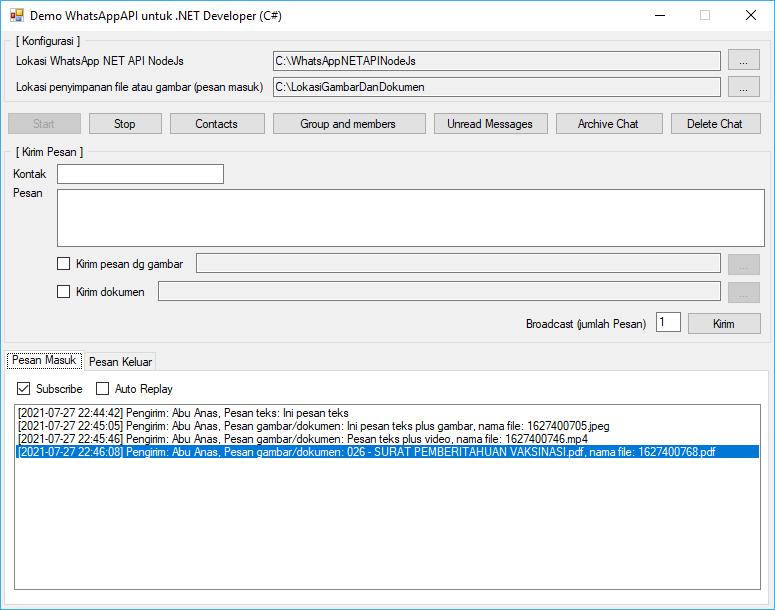
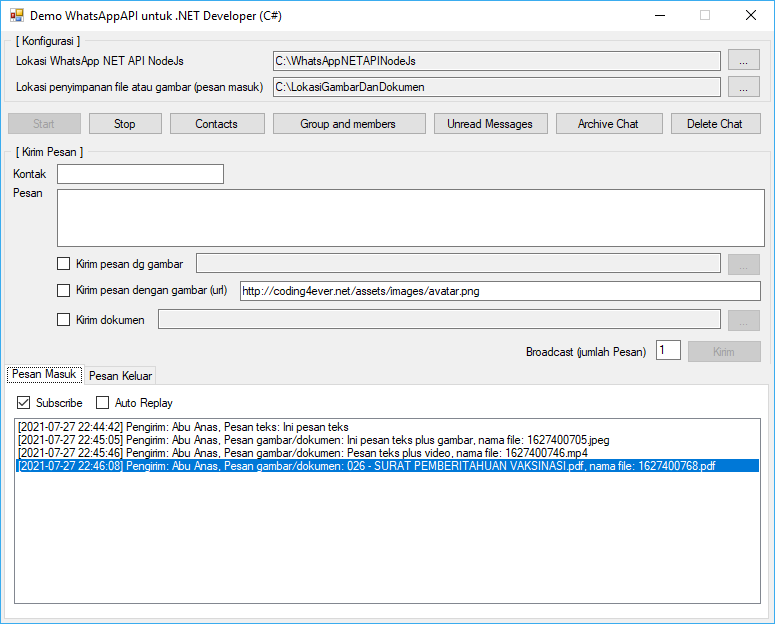
Site updated at 2021-07-30 09:21:00 PM

diff --git a/index.html b/index.html
@@ -63,10 +63,13 @@
   <li>Mengirim pesan</li>
   <li>Mengirim banyak pesan (broadcast)</li>
   <li>Mengirim pesan dengan gambar, audio, video, dan semua jenis dokumen</li>
-  <li>Bisa menyimpan gambar, audio, video, dan semua jenis dokumen dari pesan yang masuk (bisa ditentukan sendiri lokasi penyimpanannya)</li>
-  <li>Bisa juga membaca pesan dengan tipe <code class="language-plaintext highlighter-rouge">contact</code> dan <code class="language-plaintext highlighter-rouge">location</code></li>
+  <li>Mengirim pesan dengan gambar, audio, video, dan semua jenis dokumen via URL</li>
+  <li>ReplyMessage (quoted message)</li>
+  <li>Bisa menyimpan gambar, audio, video, semua jenis dokumen termasuk vcard dari pesan yang masuk (bisa ditentukan sendiri lokasi penyimpanannya)</li>
+  <li>Bisa juga membaca pesan dengan tipe <code class="language-plaintext highlighter-rouge">vcard</code> dan <code class="language-plaintext highlighter-rouge">location</code></li>
   <li>Archive chat</li>
   <li>Delete chat</li>
+  <li>Listen/subscribe event ChangeState untuk memonitoring perubahan status koneksi</li>
   <li>Listen/subscribe pesan yang masuk, jadi enggak perlu nambah objek timer lagi untuk membaca pesan masuk</li>
   <li>Listen/subscribe pesan yang dikirim, dengan fitur ini kita bisa mengecek apakah pesan yang dikirim berhasil atau gagal</li>
   <li>Otomatis menyimpan sesi login (jadi scan qr code WAnya cukup sekali saja)</li>
@@ -76,16 +79,15 @@
 <h2 id="persyaratan-sistem">Persyaratan Sistem</h2>
 
 <ul>
-  <li>Windows 7, 8, 10 dan windows versi terbaru</li>
+  <li>Windows 8, 10 dan windows versi terbaru</li>
   <li>.NET Framework 4.5 dan .NET versi terbaru</li>
-  <li>Node.js versi 13.14.0 (khusus Windows 7)</li>
-  <li>Node.js versi 14.16.x atau versi terbaru (untuk windows 8, 10 atau windows terbaru)</li>
+  <li>Node.js versi 14.16.x atau versi terbaru</li>
   <li><a href="https://git-scm.com/downloads">Software git</a> (version control)</li>
 </ul>
 
 <h2 id="instalasi">Instalasi</h2>
 
-<h3 id="1-menginstall-nodejs-versi-13140-windows-7-atau-14xx-untuk-windows-8-10-atau-windows-terbaru">1. Menginstall Node.js versi 13.14.0 (windows 7) atau 14.x.x (untuk windows 8, 10 atau windows terbaru)</h3>
+<h3 id="1-menginstall-nodejs">1. Menginstall Node.js</h3>
 
 <p>Kenapa harus menginstall Node.js? Karena dalam pengembangannya WhatsApp NET Client ini, saya menggunakan <a href="https://github.com/pedroslopez/whatsapp-web.js/">whatsapp-web.js</a> sebagai engine untuk berkomunikasi dengan WhatsApp Web, sehingga diperlukan Node.js karena <a href="https://github.com/pedroslopez/whatsapp-web.js/">Whatsapp-web.js</a> sendiri dikembangkan di atas platform ini.</p>
 
@@ -155,6 +157,32 @@
 
 <p><img src="http://wa-net.coding4ever.net/assets/images/15.png" alt="" /></p>
 
+<h2 id="update">Update</h2>
+
+<h3 id="1-mengupdate-repository-whatsappnetapinodejs">1. Mengupdate Repository WhatsAppNETAPINodeJs</h3>
+
+<p>Untuk mengupdate repository <a href="https://github.com/WhatsAppNETClient/WhatsAppNETAPINodeJs">WhatsApp NET API NodeJs</a> caranya sangat gampang, Anda jalankan terlebih dulu <code class="language-plaintext highlighter-rouge">command prompt</code> kemudian masuk ke direktori <code class="language-plaintext highlighter-rouge">WhatsAppNETAPINodeJs</code> dengan menggunakan perintah <code class="language-plaintext highlighter-rouge">CD</code>, setelah itu ketik perintah berikut:</p>
+
+<div class="language-plaintext highlighter-rouge"><div class="highlight"><pre class="highlight"><code>git pull
+</code></pre></div></div>
+<p>Kemudian tunggu sampai proses updatenya selesai. Jika berhasil tampilan prosesnya lebih kurang seperti berikut:</p>
+
+<p><img src="http://wa-net.coding4ever.net/assets/images/21.png" alt="" /></p>
+
+<h3 id="2-mengupdate-project-net">2. Mengupdate Project .NET</h3>
+
+<p>Langkah berikutnya adalah mengupdate nuget package <a href="https://www.nuget.org/packages/WhatsAppNETAPI/">WhatsAppNETAPI</a> di project .NET Anda. Caranya adalah buka terlebih dulu project Anda, kemudian klik kanan <code class="language-plaintext highlighter-rouge">References</code> -&gt; <code class="language-plaintext highlighter-rouge">Manage Nuget Package...</code></p>
+
+<p><img src="http://wa-net.coding4ever.net/assets/images/22.png" alt="" /></p>
+
+<p>Kemudian pada jendela Nuget Package, Anda pilih panel <code class="language-plaintext highlighter-rouge">Updates</code>, dan cari package <a href="https://www.nuget.org/packages/WhatsAppNETAPI/">WhatsAppNETAPI</a> kemudian klik tombol <code class="language-plaintext highlighter-rouge">Update</code>.</p>
+
+<p><img src="http://wa-net.coding4ever.net/assets/images/23.png" alt="" /></p>
+
+<p>Tunggu sampai proses Updatenya selesai. Tampilannya kurang lebih seperti berikut:</p>
+
+<p><img src="http://wa-net.coding4ever.net/assets/images/24.png" alt="" /></p>
+
 <h2 id="melaporkan-bug-atau-error">Melaporkan Bug atau Error</h2>
 
 <p>Secara teknis dalam pengembangan sebuah aplikasi jelas tidak mungkin 100% bebas dari bug. Nah jika Anda menemukan bug atau error pada saat menggunakan library WhatsApp NET Client ini, silahkan Anda laporkan di halaman <a href="https://github.com/WhatsAppNETClient/WhatsAppNETClient2/issues">https://github.com/WhatsAppNETClient/WhatsAppNETClient2/issues</a>.</p>
@@ -182,6 +210,24 @@
 <p><img src="http://wa-net.coding4ever.net/assets/images/20.png" alt="" /></p>
 
 <h2 id="info-rilis">Info Rilis</h2>
+
+<h3 id="v210-2021-07-30">v2.1.0 (2021-07-30)</h3>
+
+<ul>
+  <li>Fitur baru:
+    <ul>
+      <li>Penambahan fitur ReplyMessage (quoted message)</li>
+      <li>Penambahan fitur untuk mengirim pesan gambar, audio, video dan dokumen via URL</li>
+      <li>Penambahan fitur untuk menyimpan pesan vcard dalam bentuk file</li>
+      <li>Penambahan event ChangeState untuk memonitoring perubahan status koneksi</li>
+    </ul>
+  </li>
+  <li>Improve:
+    <ul>
+      <li>Pembacaan pesan masuk dengan tipe <code class="language-plaintext highlighter-rouge">location</code> dan <code class="language-plaintext highlighter-rouge">vcard</code> (datanya sudah dalam bentuk objek)</li>
+    </ul>
+  </li>
+</ul>
 
 <h3 id="v202-2021-07-25">v2.0.2 (2021-07-25)</h3>
 
